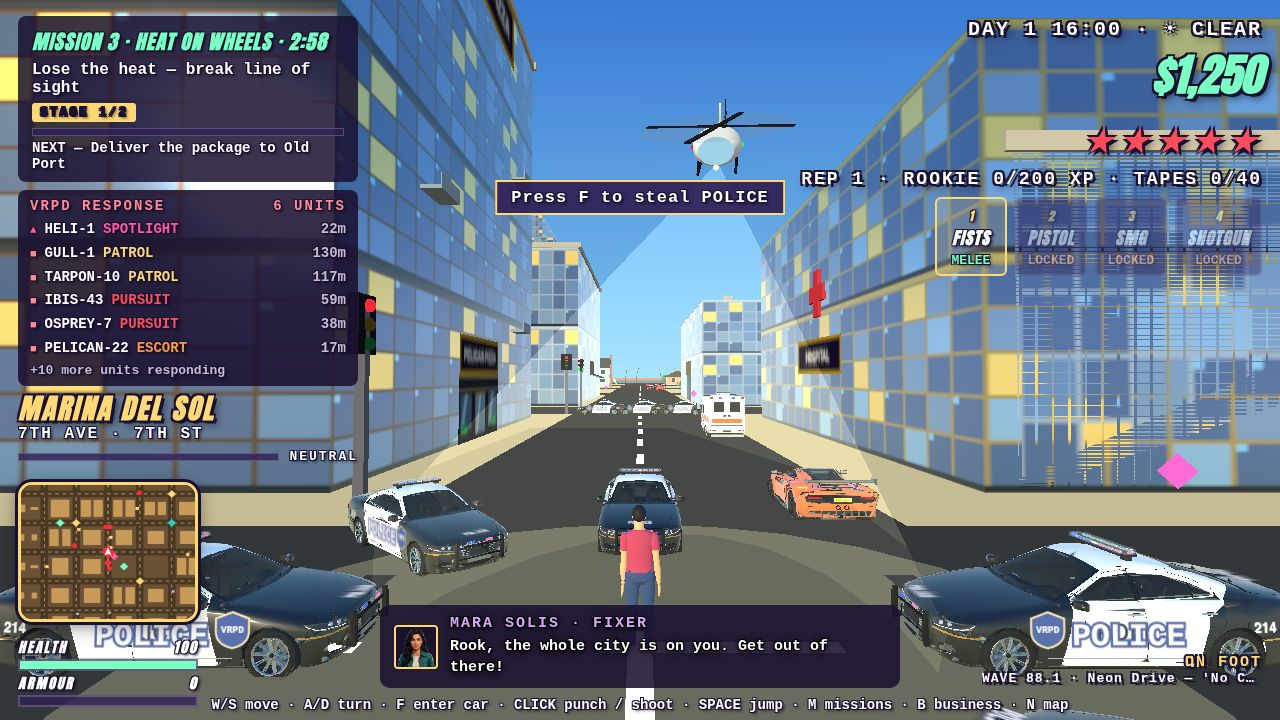
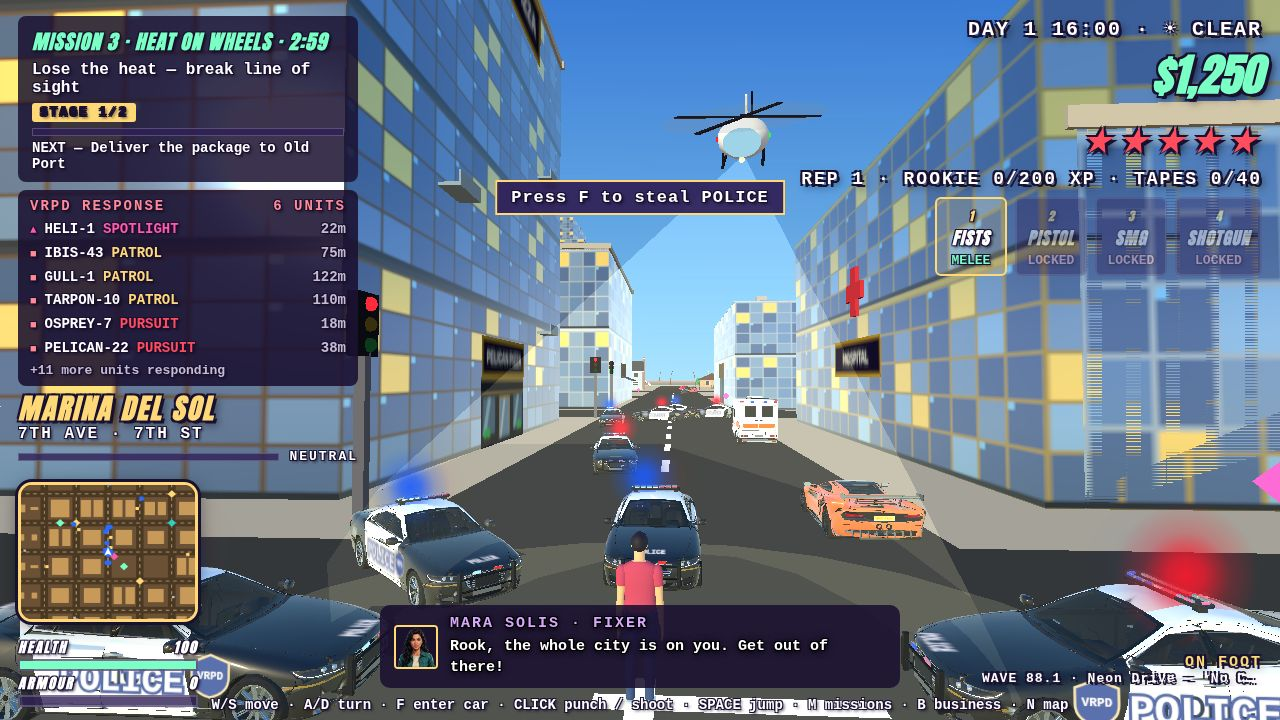
GTA6-01 v4: police light bars read clearly — Em_Cover faded, red/blue glow halos, alternating flash phase per unit; fresh 5-star screenshot

diff --git a/game/src/police.js b/game/src/police.js
@@ -121,6 +121,26 @@ function liveryMaterials() {
   return { text: textMat, badge: badgeMat };
 }
 
+// Flash glow texture, drawn once and shared by every unit: a white
+// radial gradient (hot core fading to transparent) that the red/blue
+// sprite materials tint. One texture serves both colours.
+let glowTexture = null;
+
+function getGlowTexture() {
+  if (glowTexture) return glowTexture;
+  const canvas = makeCanvas(128, 128);
+  const ctx = canvas.getContext('2d');
+  const grad = ctx.createRadialGradient(64, 64, 0, 64, 64, 64);
+  grad.addColorStop(0, 'rgba(255, 255, 255, 1)');
+  grad.addColorStop(0.25, 'rgba(255, 255, 255, 0.85)');
+  grad.addColorStop(0.6, 'rgba(255, 255, 255, 0.28)');
+  grad.addColorStop(1, 'rgba(255, 255, 255, 0)');
+  ctx.fillStyle = grad;
+  ctx.fillRect(0, 0, 128, 128);
+  glowTexture = new THREE.CanvasTexture(canvas);
+  return glowTexture;
+}
+
 export class Police {
   constructor(scene, textures, city, rng) {
     this.scene = scene;
@@ -158,6 +178,7 @@ export class Police {
     this.lostTimer = 0;
     this.clock = 0;
     this.callsignIndex = 0;
+    this._unitSeq = 0;
     this.spawnTimer = 0;
     this.soldierPreloaded = false;
     this.soldierPreloadNext = 0;
@@ -290,7 +311,15 @@ export class Police {
   // 0.19, blue 0.32), so at intensity 3 the bar barely glows — override
   // them to full-bright colours and drive the intensity hard (8 on /
   // 0.1 off) so the bar reads as a flashing light even in daylight.
+  // Two more things make the flash read in screenshots: the milky
+  // translucent Em_Cover (alpha 0.28) is faded to nearly invisible so
+  // it stops washing the lenses out, and a pair of glow sprites hovers
+  // just above the bar — the lenses alone are only a few pixels wide
+  // at screenshot scale. Each unit's phase is flipped on alternate
+  // units (unit.phaseFlip), so red and blue are both visible at once
+  // instead of every car flashing the same colour in sync.
   _flashUnit(unit, blinkOn) {
+    const on = unit.phaseFlip ? !blinkOn : blinkOn;
     if (!unit.redMaterial || !unit.blueMaterial) {
       unit.car.group.traverse((o) => {
         if (!o.isMesh) return;
@@ -303,12 +332,37 @@ export class Police {
           } else if (m.name === 'Em_Blue') {
             unit.blueMaterial = m;
             m.emissive.setRGB(0.05, 0.25, 1);
+          } else if (m.name === 'Em_Cover' && !unit.coverMaterial) {
+            unit.coverMaterial = m;
+            m.opacity = 0.05;
           }
         }
       });
     }
-    if (unit.redMaterial) unit.redMaterial.emissiveIntensity = blinkOn ? 8 : 0.1;
-    if (unit.blueMaterial) unit.blueMaterial.emissiveIntensity = blinkOn ? 0.1 : 8;
+    if (unit.redMaterial) unit.redMaterial.emissiveIntensity = on ? 8 : 0.1;
+    if (unit.blueMaterial) unit.blueMaterial.emissiveIntensity = on ? 0.1 : 8;
+    // Glow halos above the light bar, created once per unit. The bar
+    // sits at y 1.34, z -0.36 (measured from police-car.glb: the
+    // Em_Cover bbox, dequantized and scaled by the 0.85 GLB scale), so
+    // the sprites hover just above it at y 1.52; red on the +x half,
+    // blue on the -x half, matching the lens layout. depthWrite false
+    // so the halos never occlude oddly.
+    if (!unit.glowSprites) {
+      const makeGlow = (color, x) => {
+        const mat = new THREE.SpriteMaterial({
+          map: getGlowTexture(), color, transparent: true,
+          depthWrite: false, opacity: 0.05,
+        });
+        const sprite = new THREE.Sprite(mat);
+        sprite.position.set(x, 1.52, -0.36);
+        sprite.scale.set(1.4, 1.4, 1);
+        unit.car.group.add(sprite);
+        return sprite;
+      };
+      unit.glowSprites = { red: makeGlow(0xff1a2e, 0.23), blue: makeGlow(0x1a5cff, -0.23) };
+    }
+    unit.glowSprites.red.material.opacity = on ? 0.9 : 0.05;
+    unit.glowSprites.blue.material.opacity = on ? 0.05 : 0.9;
   }
 
   _steerCar(car, desired, dt) {
@@ -760,14 +814,20 @@ export class Police {
     // flat section is too short for the 1.9 m plane. The car already wears
     // a black-and-white livery, so the text alone carries it.
     this._decoratePoliceCar(car);
+    // Alternating flash phase: consecutive units blink opposite each
+    // other, so at any instant half the cars show red and half blue.
+    this._unitSeq += 1;
     const unit = {
       car,
       callsign,
       status: 'PURSUIT',
       ramCooldown: 0,
       shootCooldown: 1 + Math.random() * 2,
+      phaseFlip: this._unitSeq % 2 === 0,
       redMaterial: null,
       blueMaterial: null,
+      coverMaterial: null,
+      glowSprites: null,
       escortSide: 0,
       officer: null,
       stillTimer: 0,
